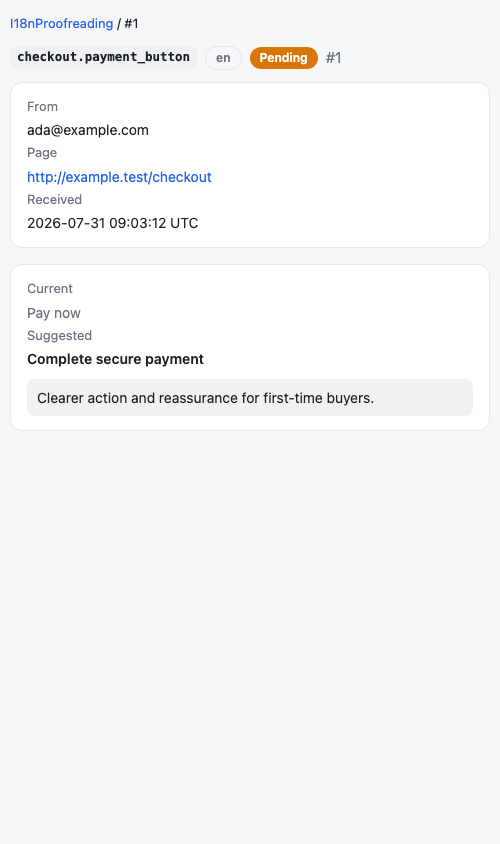
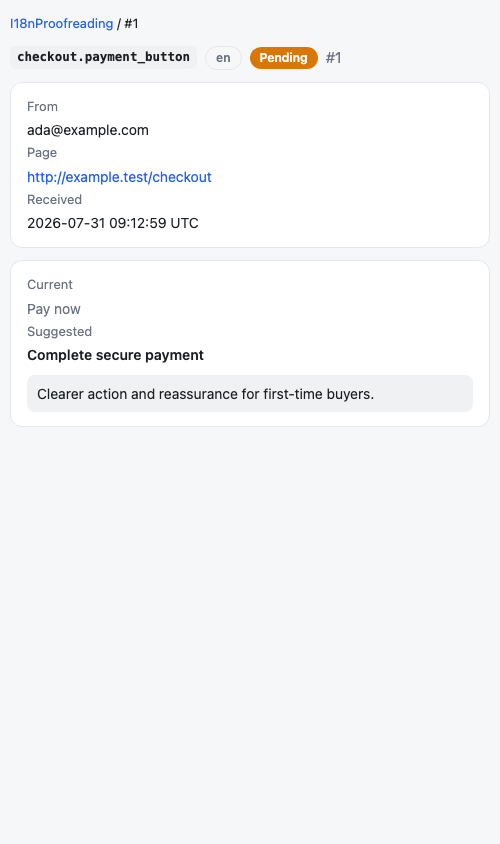
Normalize admin panel spacing

Changed region(s): [[0.06, 0.4621, 0.75, 0.4929], [0.06, 0.3081, 0.42, 0.4313], [0.27, 0.2464, 0.36, 0.2773]]

diff --git a/lib/i18n_proofreading/dashboard.css b/lib/i18n_proofreading/dashboard.css
@@ -83,7 +83,7 @@
       .case-id { color: var(--muted); font-weight: 400; font-size: 15px; }
       .panel-head { flex: 0 0 auto; }
       .panel-head h1 { display: flex; align-items: center; gap: 8px; flex-wrap: wrap; margin-bottom: 12px; }
-      .detail-scroll { min-height: 0; display: flex; flex-direction: column; gap: 16px; }
+      .detail-scroll { min-height: 0; display: flex; flex-direction: column; gap: 12px; }
       .suggestion-panel { min-width: 0; display: flex; flex-direction: column; }
       .meta-list { display: grid; grid-template-columns: max-content 1fr; gap: 6px 16px; margin: 0; }
       .meta-list dt { color: var(--muted); font-size: 13px; }
